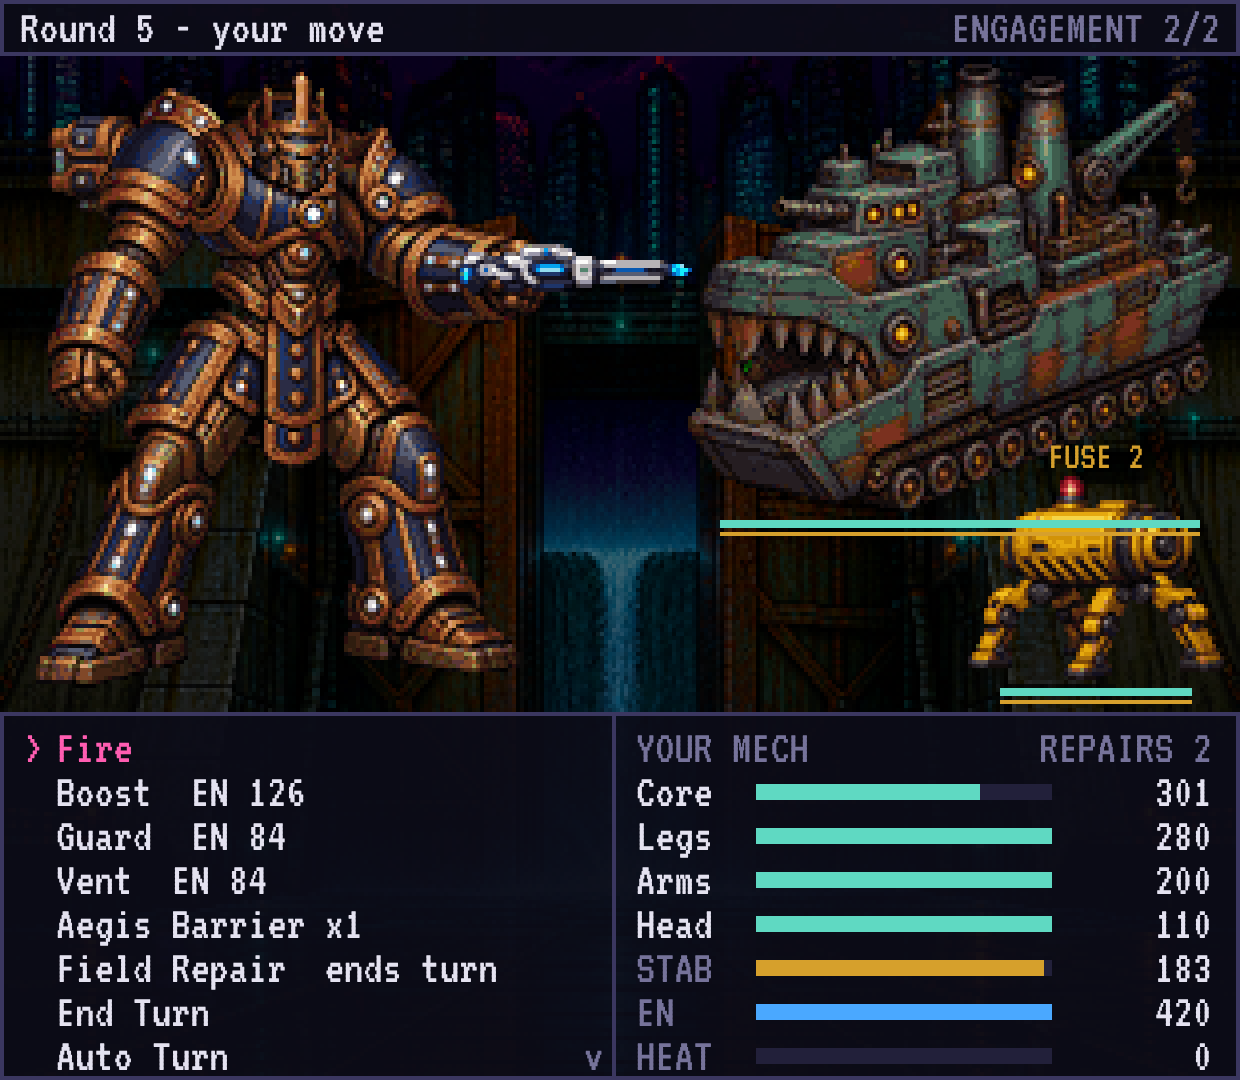
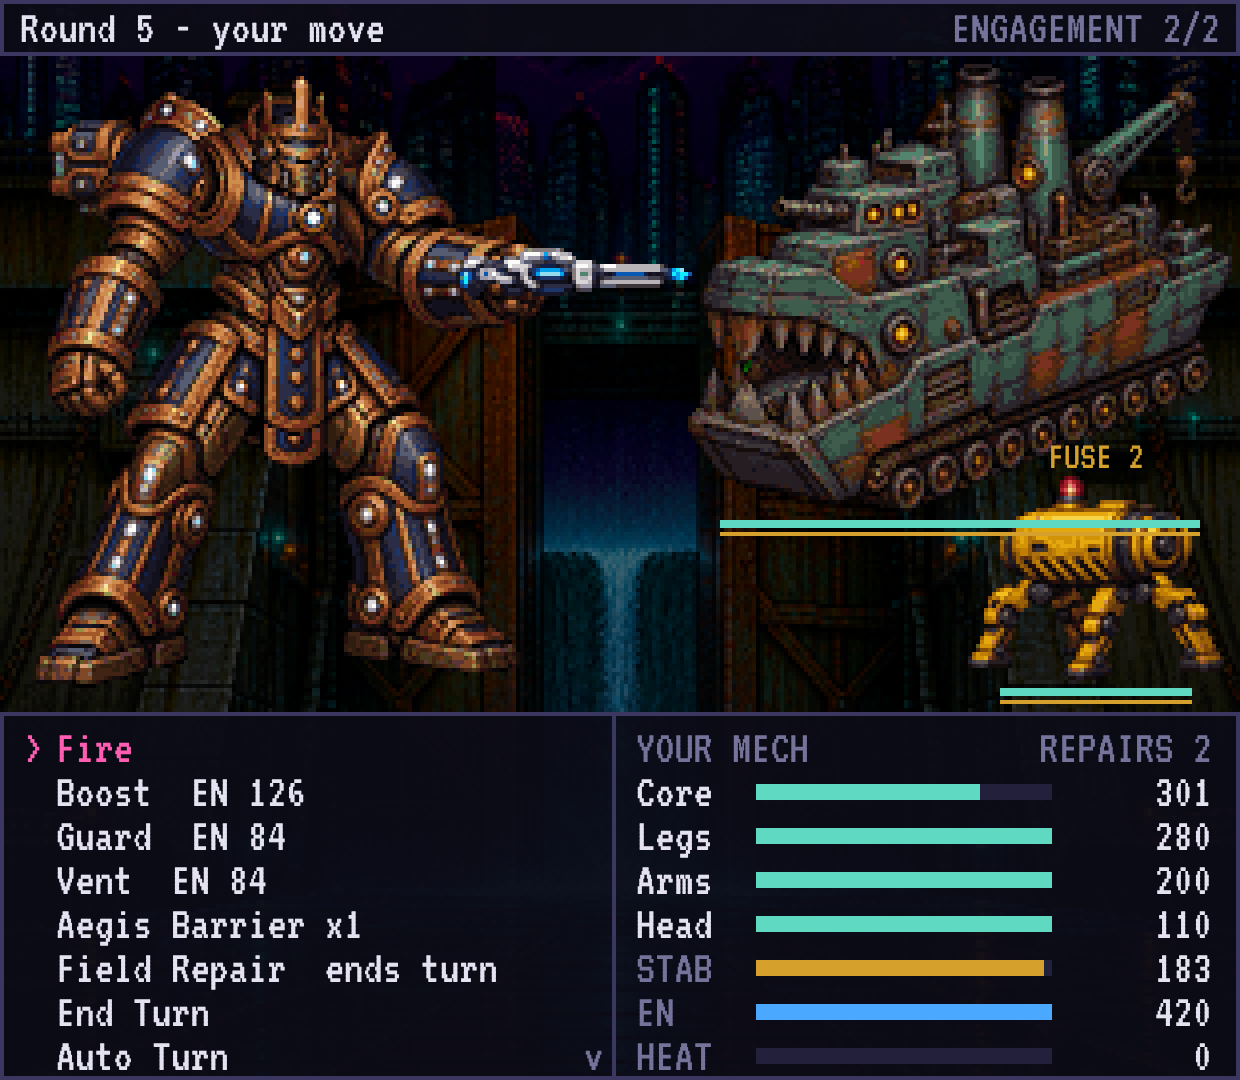
A destroyed machine breaks into quarters of its own picture
Claude-Session: https://claude.ai/code/session_01D72L5UjxxzTBcVetS4xsP3

Changed region(s): [[0.0306, 0.0611, 0.5516, 0.3972]]

diff --git a/src/ui/battleScreen.ts b/src/ui/battleScreen.ts
@@ -15,7 +15,7 @@ import { BACK_MOUNT, FAR_FIST, NEAR_FIST, dropOf } from './mechLayout';
 import { HitStop } from './hitStop';
 import { drawMech, mechSprites, type MechSprites } from './mechView';
 import { Particles } from './particles';
-import { Puppet, type Pose } from './pose';
+import { Puppet, shatter, type Pose } from './pose';
 import type { Sprite, SpriteStore } from './sprites';
 import { fitTags, labelFits, markPosition, tagWidth, type Tag } from './tags';
 import { Typewriter } from './typewriter';
@@ -519,7 +519,21 @@ export class BattleScreen {
       } else {
         // A machine that is one picture moves as a whole, the way its body would: it faces left, so forward is left.
         const body = this.poseOf(enemy).core ?? { dx: 0, dy: 0 };
-        this.withTransform(ctx, enemy, hover, (dx, dy) => ctx.drawImage(r.sprite.image, r.x + dx - body.dx, r.y + dy + body.dy, r.w, r.h));
+        const breaking = this.puppet(enemy).breaking;
+        this.withTransform(ctx, enemy, hover, (dx, dy) => {
+          if (breaking === null) return ctx.drawImage(r.sprite.image, r.x + dx - body.dx, r.y + dy + body.dy, r.w, r.h);
+          // Destroyed, it comes apart in four quarters cut from its own picture.
+          const image = r.sprite.image as { naturalWidth?: number; naturalHeight?: number; width?: number; height?: number };
+          const iw = (image.naturalWidth || image.width || r.w) / 2;
+          const ih = (image.naturalHeight || image.height || r.h) / 2;
+          const w = Math.ceil(r.w / 2);
+          const h = Math.ceil(r.h / 2);
+          shatter(breaking).forEach((o, i) => {
+            const col = i % 2;
+            const row = i < 2 ? 0 : 1;
+            ctx.drawImage(r.sprite.image, col * iw, row * ih, iw, ih, r.x + col * (r.w - w) + o.dx, r.y + row * (r.h - h) + o.dy, w, h);
+          });
+        });
       }
     });
     // Then everything that is written over them, so no machine hides another's bars.

diff --git a/tests/ui/pose.test.ts b/tests/ui/pose.test.ts
@@ -1,4 +1,4 @@
-import { POSE_MS, Puppet, actionPose, addPoses, idlePose, statePose, type Pose } from '../../src/ui/pose';
+import { POSE_MS, Puppet, actionPose, addPoses, idlePose, shatter, statePose, type Pose } from '../../src/ui/pose';
 
 const at = (pose: Pose, slot: keyof Pose) => pose[slot] ?? { dx: 0, dy: 0 };
 const UPPER = ['core', 'head', 'armNear', 'armFar', 'rightHand', 'leftHand', 'shoulder'] as const;
@@ -123,5 +123,28 @@ describe('a puppet', () => {
     puppet.play('hit');
     puppet.update(20);
     expect(puppet.pose({ guarding: true, staggered: true }, 500)).toEqual({});
+  });
+});
+
+describe('a machine that is one picture, destroyed', () => {
+  test('breaks into four quarters that start together and end apart, the upper ones thrown up first', () => {
+    expect(shatter(0)).toEqual([{ dx: 0, dy: 0 }, { dx: 0, dy: 0 }, { dx: 0, dy: 0 }, { dx: 0, dy: 0 }]);
+    const end = shatter(1);
+    expect(end[0].dx).toBeLessThan(0);
+    expect(end[1].dx).toBeGreaterThan(0);
+    expect(new Set(end.map((o) => `${o.dx},${o.dy}`)).size).toBe(4);
+    expect(shatter(0.3)[0].dy).toBeLessThan(0);
+    // By the end everything is falling.
+    for (const o of end) expect(o.dy).toBeGreaterThan(10);
+  });
+
+  test('a puppet says how far along its destruction it is', () => {
+    const puppet = new Puppet(0, true, false);
+    expect(puppet.breaking).toBeNull();
+    puppet.play('destroyed');
+    puppet.update(POSE_MS.destroyed / 2);
+    expect(puppet.breaking).toBeCloseTo(0.5, 1);
+    puppet.update(POSE_MS.destroyed);
+    expect(puppet.breaking).toBe(1);
   });
 });

diff --git a/src/ui/pose.ts b/src/ui/pose.ts
@@ -115,6 +115,17 @@ export function actionPose(name: ActionName, p: number): Pose {
 }
 
 /**
+ * Where the four quarters of a machine that is one picture have got to, `q` of the way through its
+ * destruction: each is thrown outward from the middle and falls. Offsets are whole pixels, for the
+ * quarters in reading order (top left, top right, bottom left, bottom right).
+ */
+export function shatter(q: number): LayerOffset[] {
+  const p = Math.max(0, Math.min(1, q));
+  const fall = 40 * p * p;
+  return [[-16, -22], [18, -16], [-12, -4], [14, -8]].map(([x, lift]) => ({ dx: r(x * p), dy: r(lift * p + fall) }));
+}
+
+/**
  * The moving part of one mech: what it has been told to do and when, on top of standing still and
  * whatever state it is in. With motion off (the test mode) it never moves.
  */
@@ -136,6 +147,13 @@ export class Puppet {
     this.now += dtMs;
     for (const act of this.acts) if (act.name === 'destroyed' && this.now >= act.start + POSE_MS.destroyed) this.wrecked = true;
     this.acts = this.acts.filter((act) => this.now < act.start + POSE_MS[act.name]);
+  }
+
+  /** How far along its destruction this unit is, from 0 to 1; null while it is whole. */
+  get breaking(): number | null {
+    if (this.wrecked) return 1;
+    const act = this.acts.find((a) => a.name === 'destroyed' && this.now >= a.start);
+    return act ? Math.min(1, (this.now - act.start) / POSE_MS.destroyed) : null;
   }
 
   /** True while something that was started is still playing or waiting to. */
